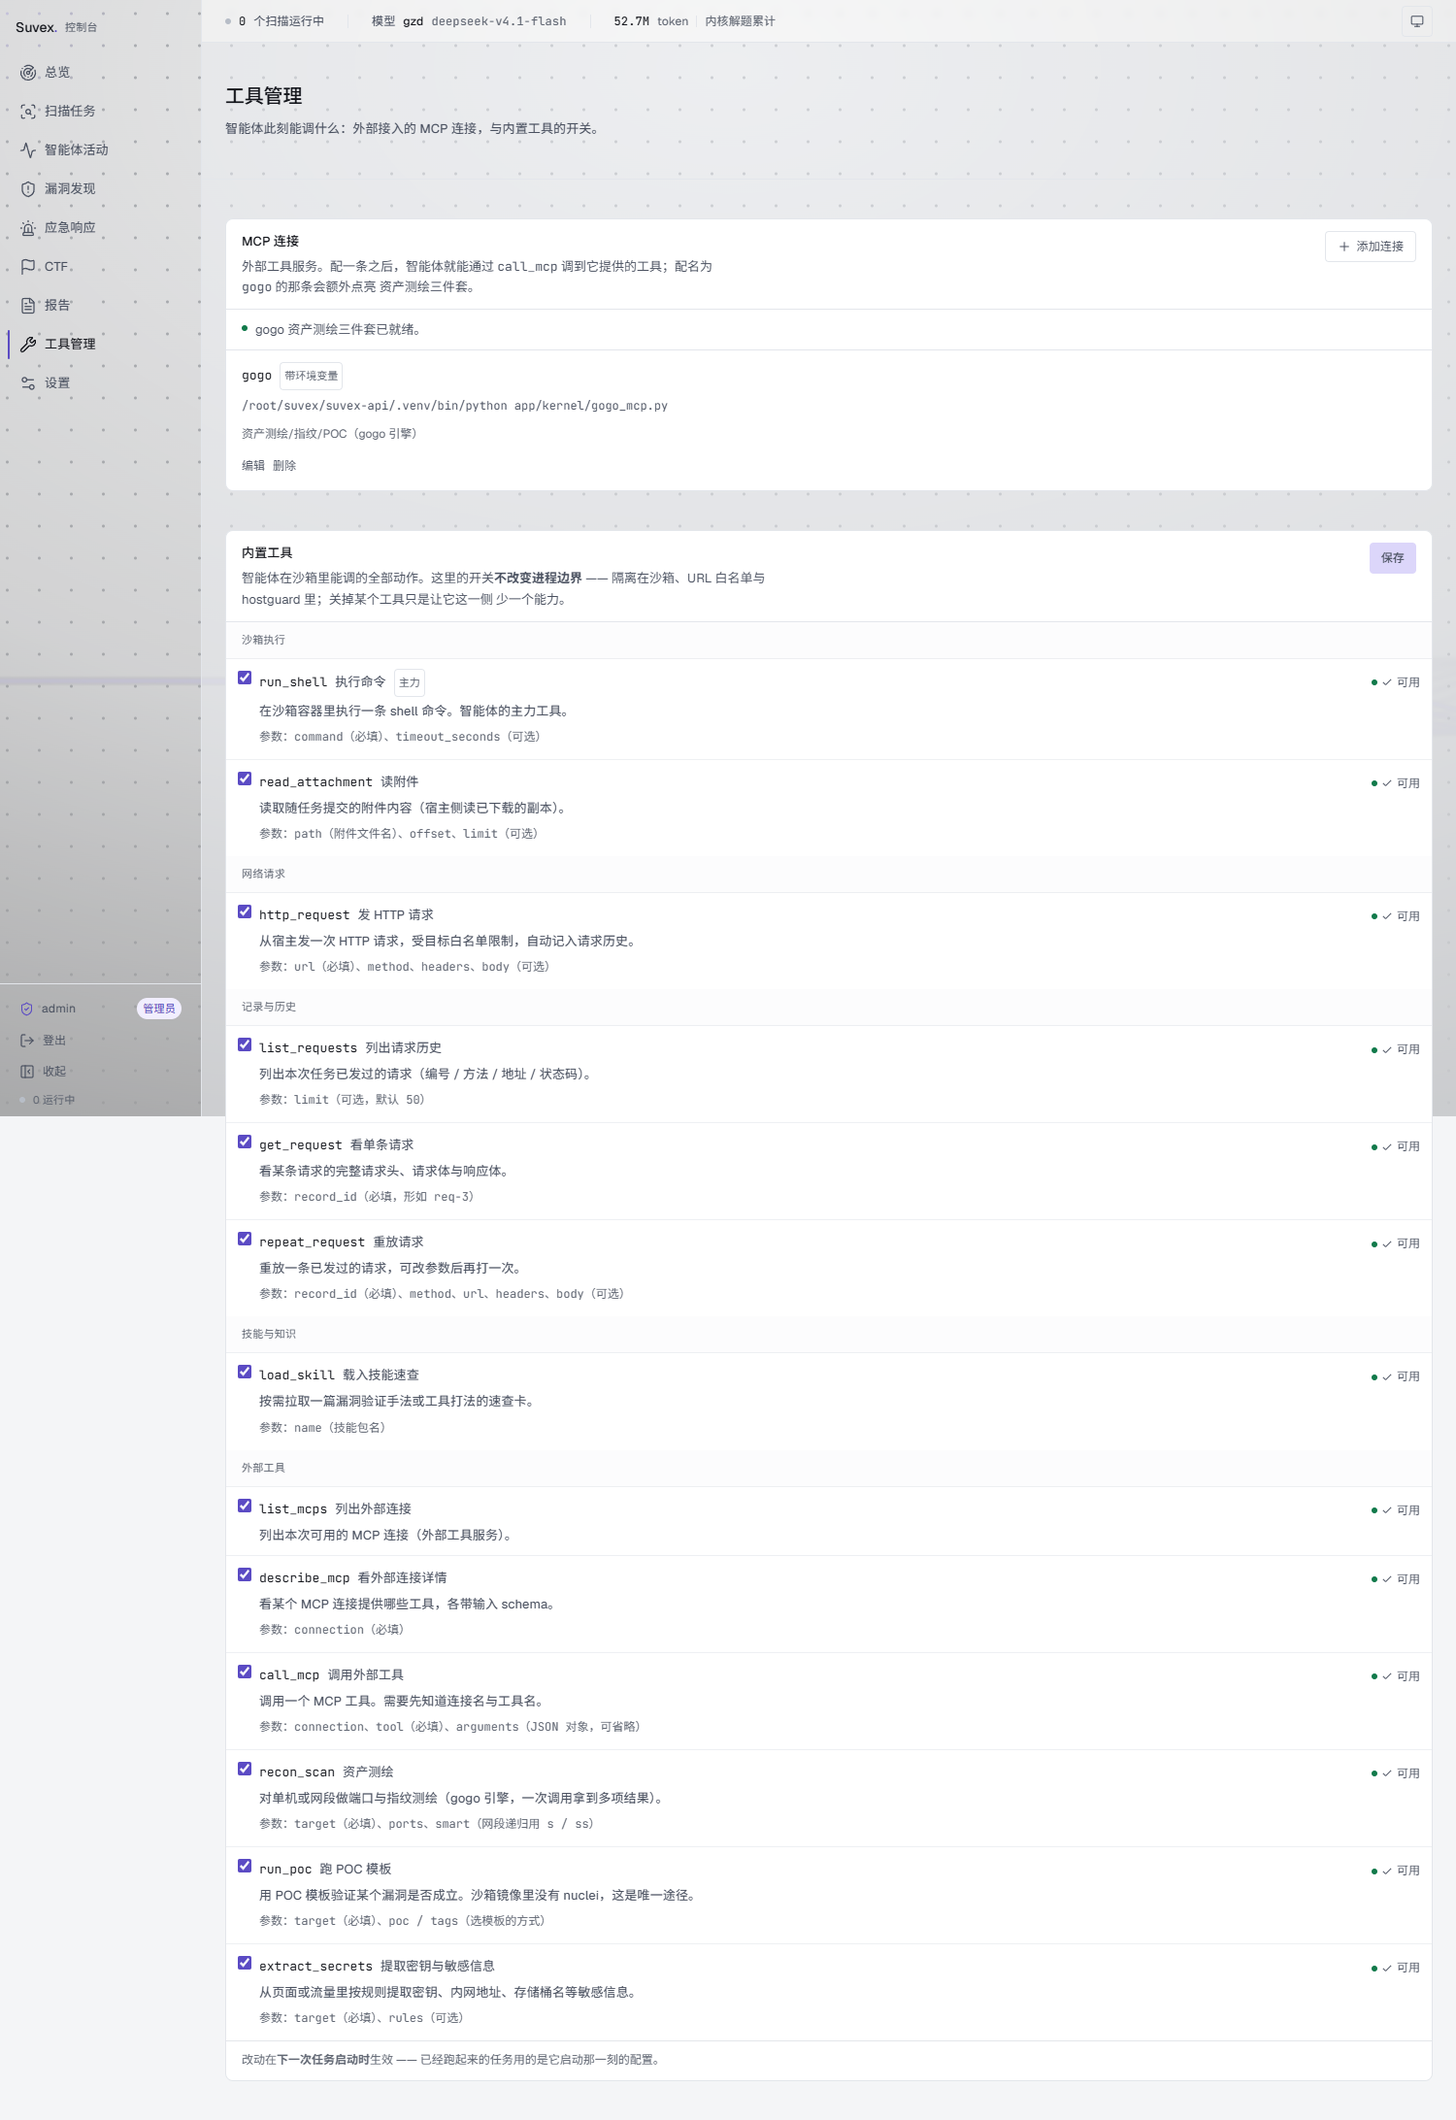
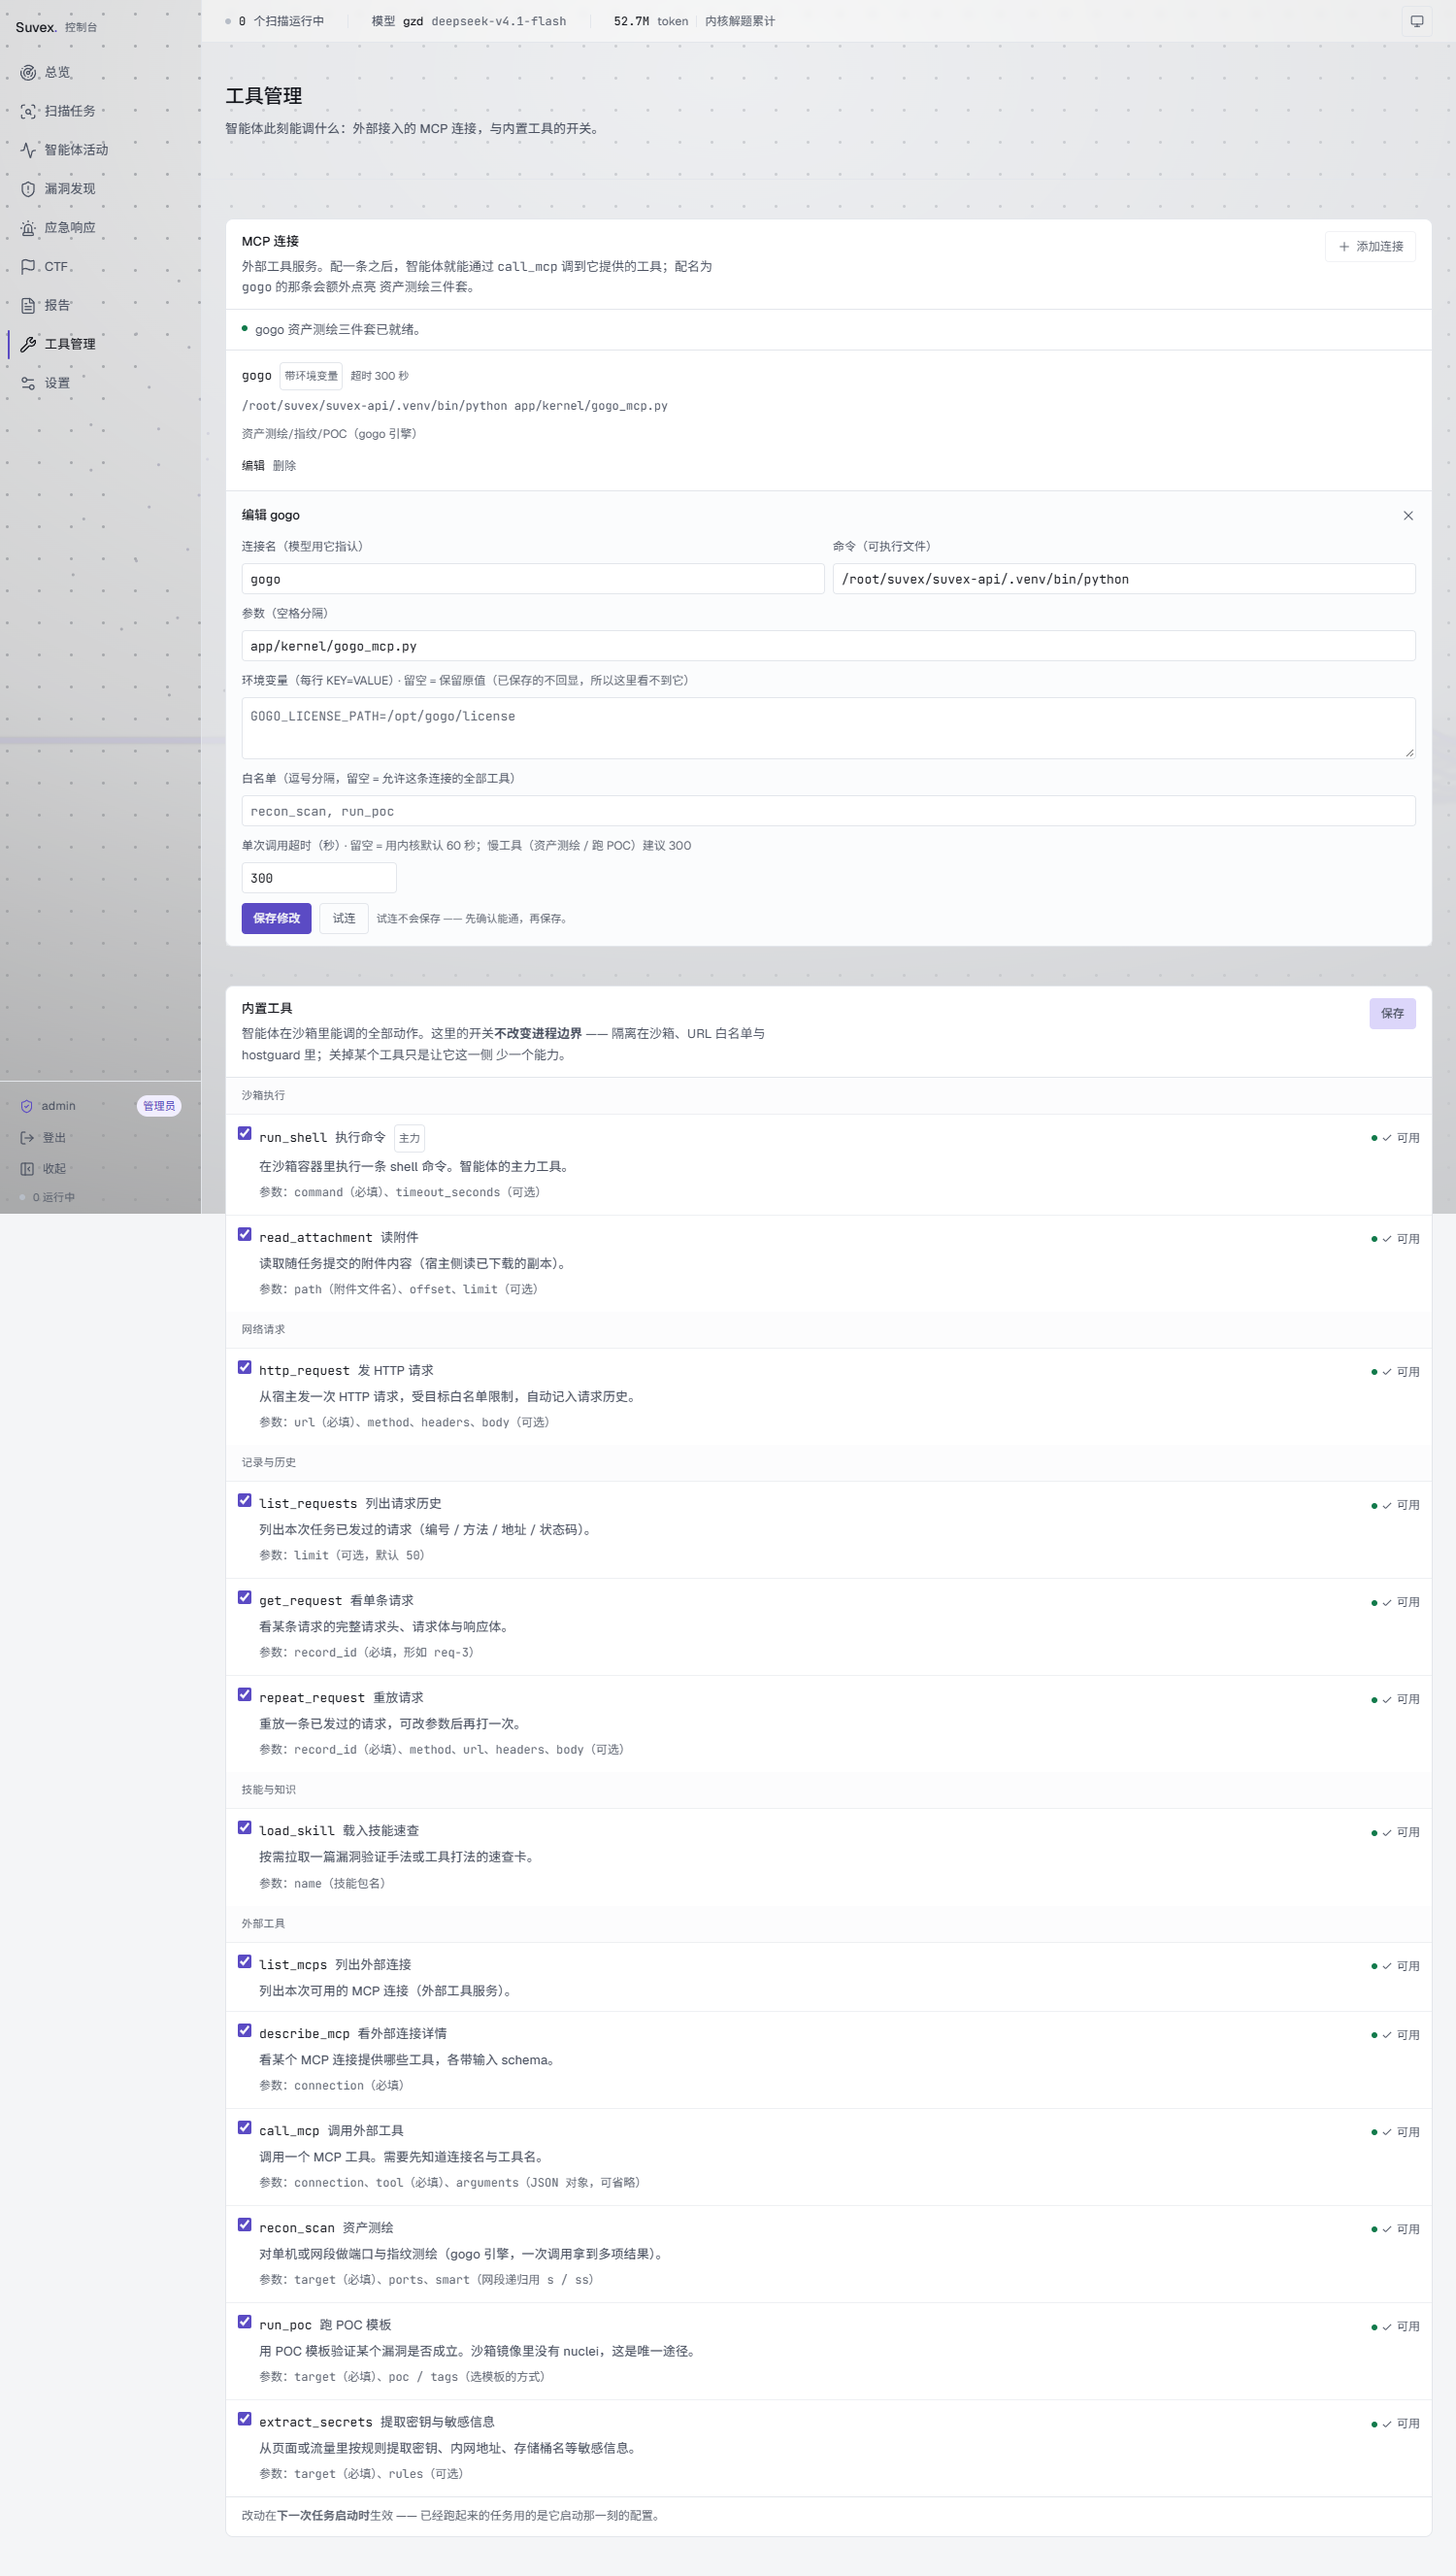
feat(web): 连接列表显示生效超时（v0.83 补）
列表行加上「超时 300 秒 / 默认 60 秒」。

理由与超时本身可配是同一件事的两面：超时配错的症状是"调用偶尔失败"，
而"这条连接到底是 60 还是 300"如果只能点进编辑才看得见，
就没有人会在排查时想到去核对它。没配时显示"默认 60"而不是留空，
是为了让"没限制"与"用默认值"在界面上不会混起来。

验证：Kali 上编辑 gogo 连接，超时回填 300；列表行显示「超时 300 秒」。

diff --git a/suvex-web/src/components/tools/McpPanel.tsx b/suvex-web/src/components/tools/McpPanel.tsx
@@ -210,9 +210,7 @@ export function McpPanel({
   }
 
   function handleRemove(name: string) {
-    const rest = servers
-      .filter((server) => server.name !== name)
-      .map((server) => draftOf(server))
+    const rest = servers.filter((server) => server.name !== name).map((server) => draftOf(server))
     onSave(rest)
   }
 
@@ -227,7 +225,12 @@ export function McpPanel({
             资产测绘三件套。
           </p>
         </div>
-        <Button size="sm" variant="secondary" onClick={startAdd} disabled={saving || draft !== null}>
+        <Button
+          size="sm"
+          variant="secondary"
+          onClick={startAdd}
+          disabled={saving || draft !== null}
+        >
           <Plus className="size-3.5" strokeWidth={1.75} />
           添加连接
         </Button>
@@ -248,9 +251,7 @@ export function McpPanel({
           aria-hidden
         />
         <span className="leading-relaxed">
-          {gogoReady
-            ? 'gogo 资产测绘三件套已就绪。'
-            : `gogo 资产测绘三件套未就绪：${gogoReason}`}
+          {gogoReady ? 'gogo 资产测绘三件套已就绪。' : `gogo 资产测绘三件套未就绪：${gogoReason}`}
         </span>
       </div>
 
@@ -279,13 +280,20 @@ export function McpPanel({
                     白名单 {server.allowedTools.length} 项
                   </span>
                 )}
+                {/*
+                  ★ v0.83：把生效的超时显示在列表里。
+                    不显示的话，"这条连接到底是不是 60 秒"只能点进编辑才知道，
+                    而超时配错的症状是"调用偶尔失败"，没人会想到去核对它。
+                    没配时显示内核默认值，让人知道它确实是 60 而不是"没限制"。
+                */}
+                <span className="text-[11px] text-ink-faint">
+                  超时 {server.callTimeout == null ? '默认 60' : server.callTimeout} 秒
+                </span>
               </div>
-              <p className="mt-1 font-mono text-[12px] break-all text-ink-muted">
+              <p className="mt-1 break-all font-mono text-[12px] text-ink-muted">
                 {server.command} {server.args.join(' ')}
               </p>
-              {server.notes && (
-                <p className="mt-1 text-[12px] text-ink-faint">{server.notes}</p>
-              )}
+              {server.notes && <p className="mt-1 text-[12px] text-ink-faint">{server.notes}</p>}
               <div className="mt-2 flex gap-tight">
                 <button
                   type="button"
@@ -463,9 +471,7 @@ export function McpPanel({
               {testing ? <Loader2 className="size-3.5 animate-spin" /> : null}
               试连
             </Button>
-            <span className="text-[11px] text-ink-faint">
-              试连不会保存 —— 先确认能通，再保存。
-            </span>
+            <span className="text-[11px] text-ink-faint">试连不会保存 —— 先确认能通，再保存。</span>
           </div>
         </div>
       )}
